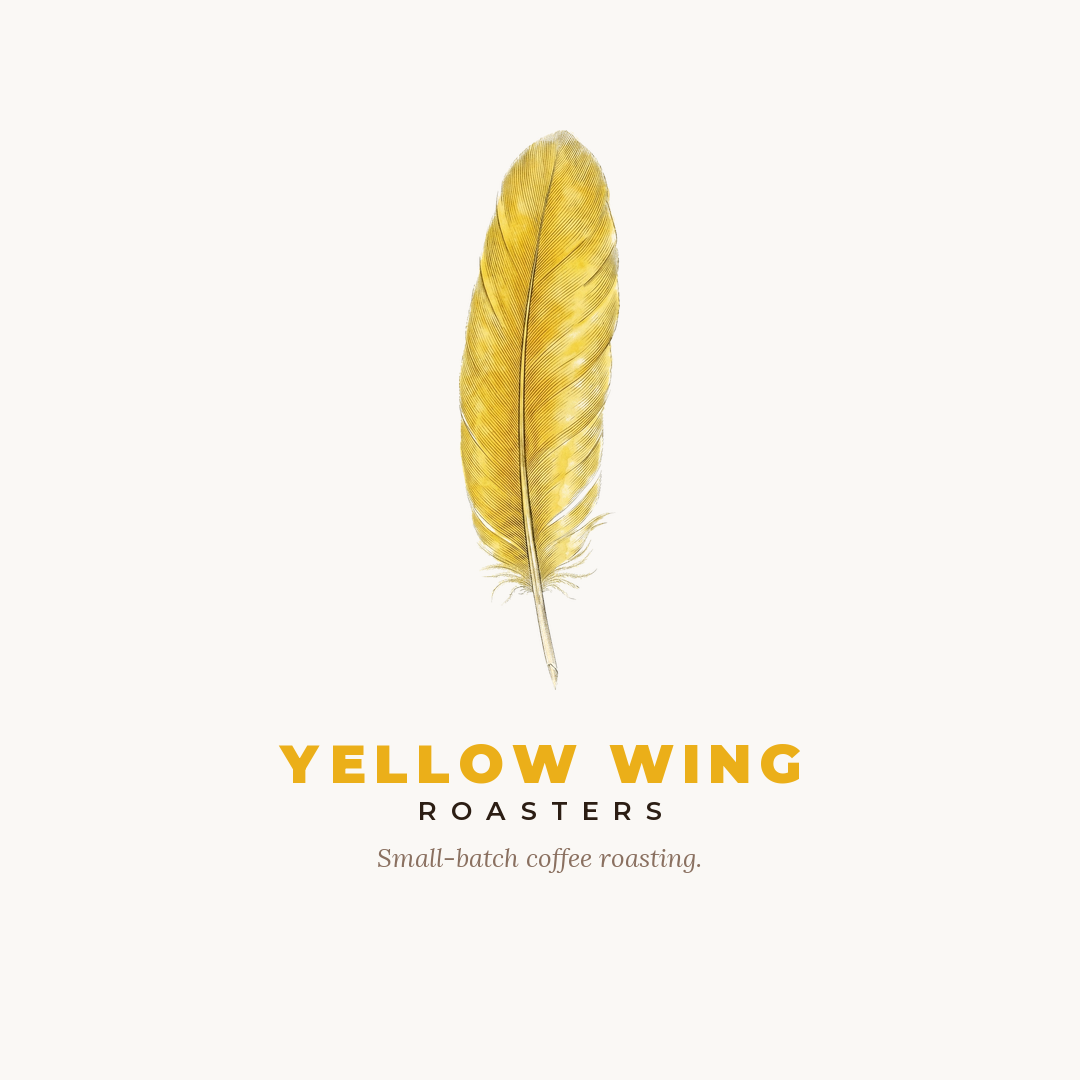
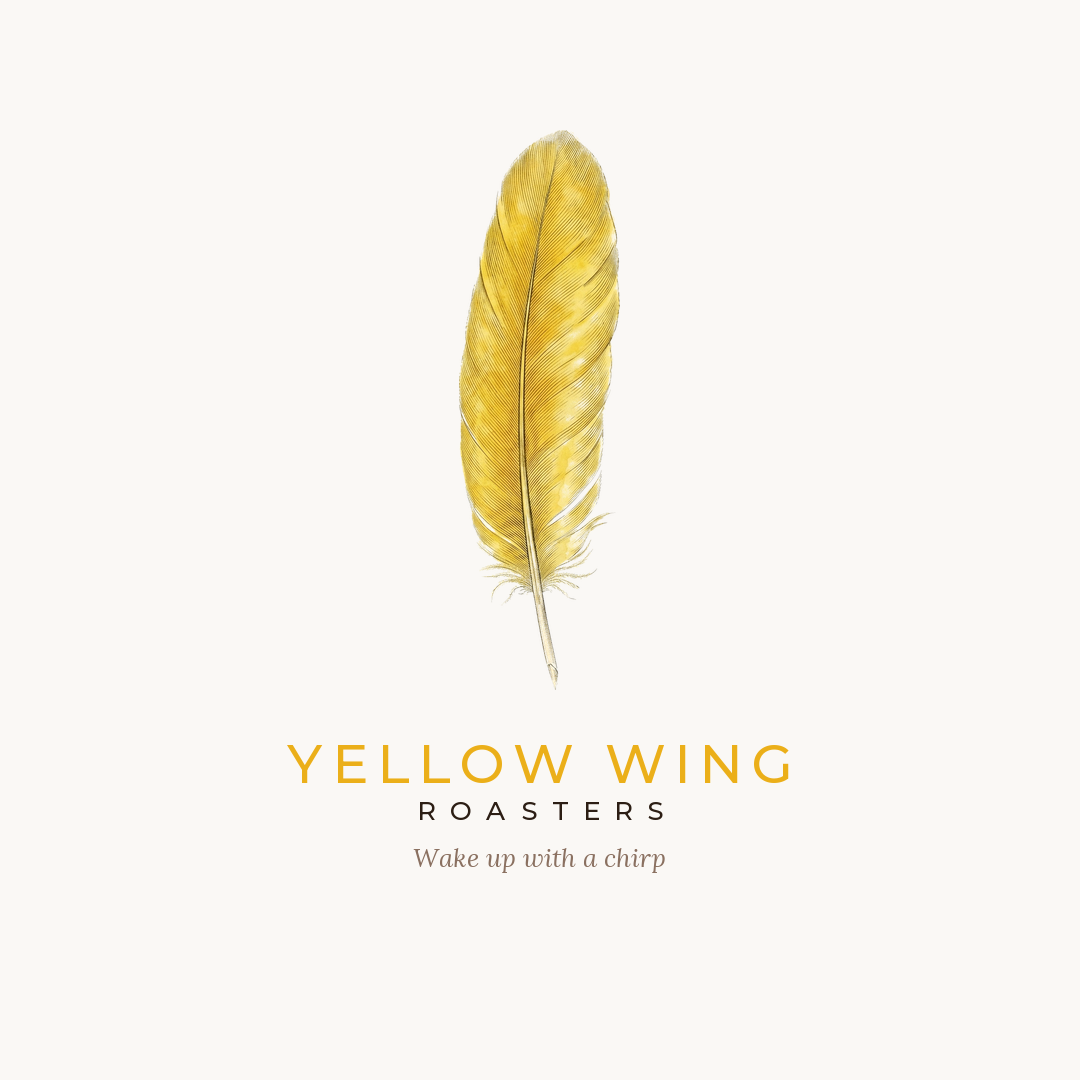
Update social images with new slogan and font weight, point OG preview to social-preview-og.png

Changed region(s): [[0.2444, 0.6722, 0.7639, 0.825]]

diff --git a/_layouts/index.html b/_layouts/index.html
@@ -22,7 +22,7 @@
     "name": "Yellow Wing Roasters",
     "url": "https://yellowwingroasters.com",
     "logo": "https://yellowwingroasters.com/images/audubon-feather-transparent.png",
-    "image": "https://yellowwingroasters.com/images/social-preview-v2.png",
+    "image": "https://yellowwingroasters.com/images/social/social-preview-og.png",
     "description": "Small-batch coffee roasting in Connecticut.",
     "email": "chirp@yellowwingroasters.com"
   }

diff --git a/scripts/generate_social_images.py b/scripts/generate_social_images.py
@@ -47,10 +47,10 @@ def get_feather_source():
 
 def get_fonts(title_size, sub_size, tag_size):
     f_title = ImageFont.truetype(FONT_MONTSERRAT, title_size)
-    f_title.set_variation_by_axes([900])  # Montserrat Black / 900
+    f_title.set_variation_by_axes([500])  # Montserrat Medium / 500 (matches .brand-header-name)
     
     f_sub = ImageFont.truetype(FONT_MONTSERRAT, sub_size)
-    f_sub.set_variation_by_axes([600])    # Montserrat Medium-SemiBold
+    f_sub.set_variation_by_axes([500])    # Montserrat Medium / 500 (matches .brand-header-sub)
     
     f_tag = ImageFont.truetype(FONT_LORA, tag_size)
     return f_title, f_sub, f_tag
@@ -104,7 +104,7 @@ def create_portrait_post(feather, output_path, bg_color=BG_CREAM, dark_mode=Fals
     text_y = start_y + target_h + 50
     render_spaced_text(draw, "YELLOW WING", 540, text_y, f_title, gold_col, tracking=10)
     render_spaced_text(draw, "ROASTERS", 540, text_y + 75, f_sub, sub_col, tracking=16)
-    draw.text((540, text_y + 140), "Small-batch coffee roasting.", font=f_tag, fill=tag_col, anchor="mt")
+    draw.text((540, text_y + 140), "Wake up with a chirp", font=f_tag, fill=tag_col, anchor="mt")
     
     img.save(output_path, "PNG", optimize=True)
     print(f"  ✓ {output_path} (1080x1350)")
@@ -128,7 +128,7 @@ def create_square_post(feather, output_path, bg_color=BG_CREAM, dark_mode=False)
     text_y = start_y + target_h + 40
     render_spaced_text(draw, "YELLOW WING", 540, text_y, f_title, gold_col, tracking=8)
     render_spaced_text(draw, "ROASTERS", 540, text_y + 64, f_sub, sub_col, tracking=14)
-    draw.text((540, text_y + 118), "Small-batch coffee roasting.", font=f_tag, fill=tag_col, anchor="mt")
+    draw.text((540, text_y + 118), "Wake up with a chirp", font=f_tag, fill=tag_col, anchor="mt")
     
     img.save(output_path, "PNG", optimize=True)
     print(f"  ✓ {output_path} (1080x1080)")
@@ -152,7 +152,7 @@ def create_story(feather, output_path, bg_color=BG_CREAM, dark_mode=False):
     text_y = start_y + target_h + 60
     render_spaced_text(draw, "YELLOW WING", 540, text_y, f_title, gold_col, tracking=10)
     render_spaced_text(draw, "ROASTERS", 540, text_y + 80, f_sub, sub_col, tracking=16)
-    draw.text((540, text_y + 148), "Small-batch coffee roasting.", font=f_tag, fill=tag_col, anchor="mt")
+    draw.text((540, text_y + 148), "Wake up with a chirp", font=f_tag, fill=tag_col, anchor="mt")
     
     img.save(output_path, "PNG", optimize=True)
     print(f"  ✓ {output_path} (1080x1920)")
@@ -176,7 +176,7 @@ def create_og_card(feather, output_path, bg_color=BG_CREAM, dark_mode=False):
     text_y = start_y + target_h + 28
     render_spaced_text(draw, "YELLOW WING", 600, text_y, f_title, gold_col, tracking=7)
     render_spaced_text(draw, "ROASTERS", 600, text_y + 52, f_sub, sub_col, tracking=13)
-    draw.text((600, text_y + 98), "Small-batch coffee roasting.", font=f_tag, fill=tag_col, anchor="mt")
+    draw.text((600, text_y + 98), "Wake up with a chirp", font=f_tag, fill=tag_col, anchor="mt")
     
     img.save(output_path, "PNG", optimize=True)
     print(f"  ✓ {output_path} (1200x630)")

diff --git a/scripts/optimize_web_images.py b/scripts/optimize_web_images.py
@@ -4,7 +4,7 @@ Optimizes web images in images/ directory:
 - Constrains dimensions to max 800x800 bounding box using high-quality Lanczos resampling
 - Quantizes RGBA to 256 colors using Fast Octree algorithm with alpha preservation
 - Saves with optimize=True
-- Excludes favicon.png, social-preview-v2.png, and non-image directories
+- Excludes favicon.png, social/ directory, and non-image directories
 """
 
 import os
@@ -12,7 +12,7 @@ import sys
 from PIL import Image
 
 IMAGES_DIR = "images"
-EXCLUDED = {"favicon.png", "social-preview-v2.png"}
+EXCLUDED = {"favicon.png", "social"}
 MAX_DIM = (800, 800)
 
 def main():
